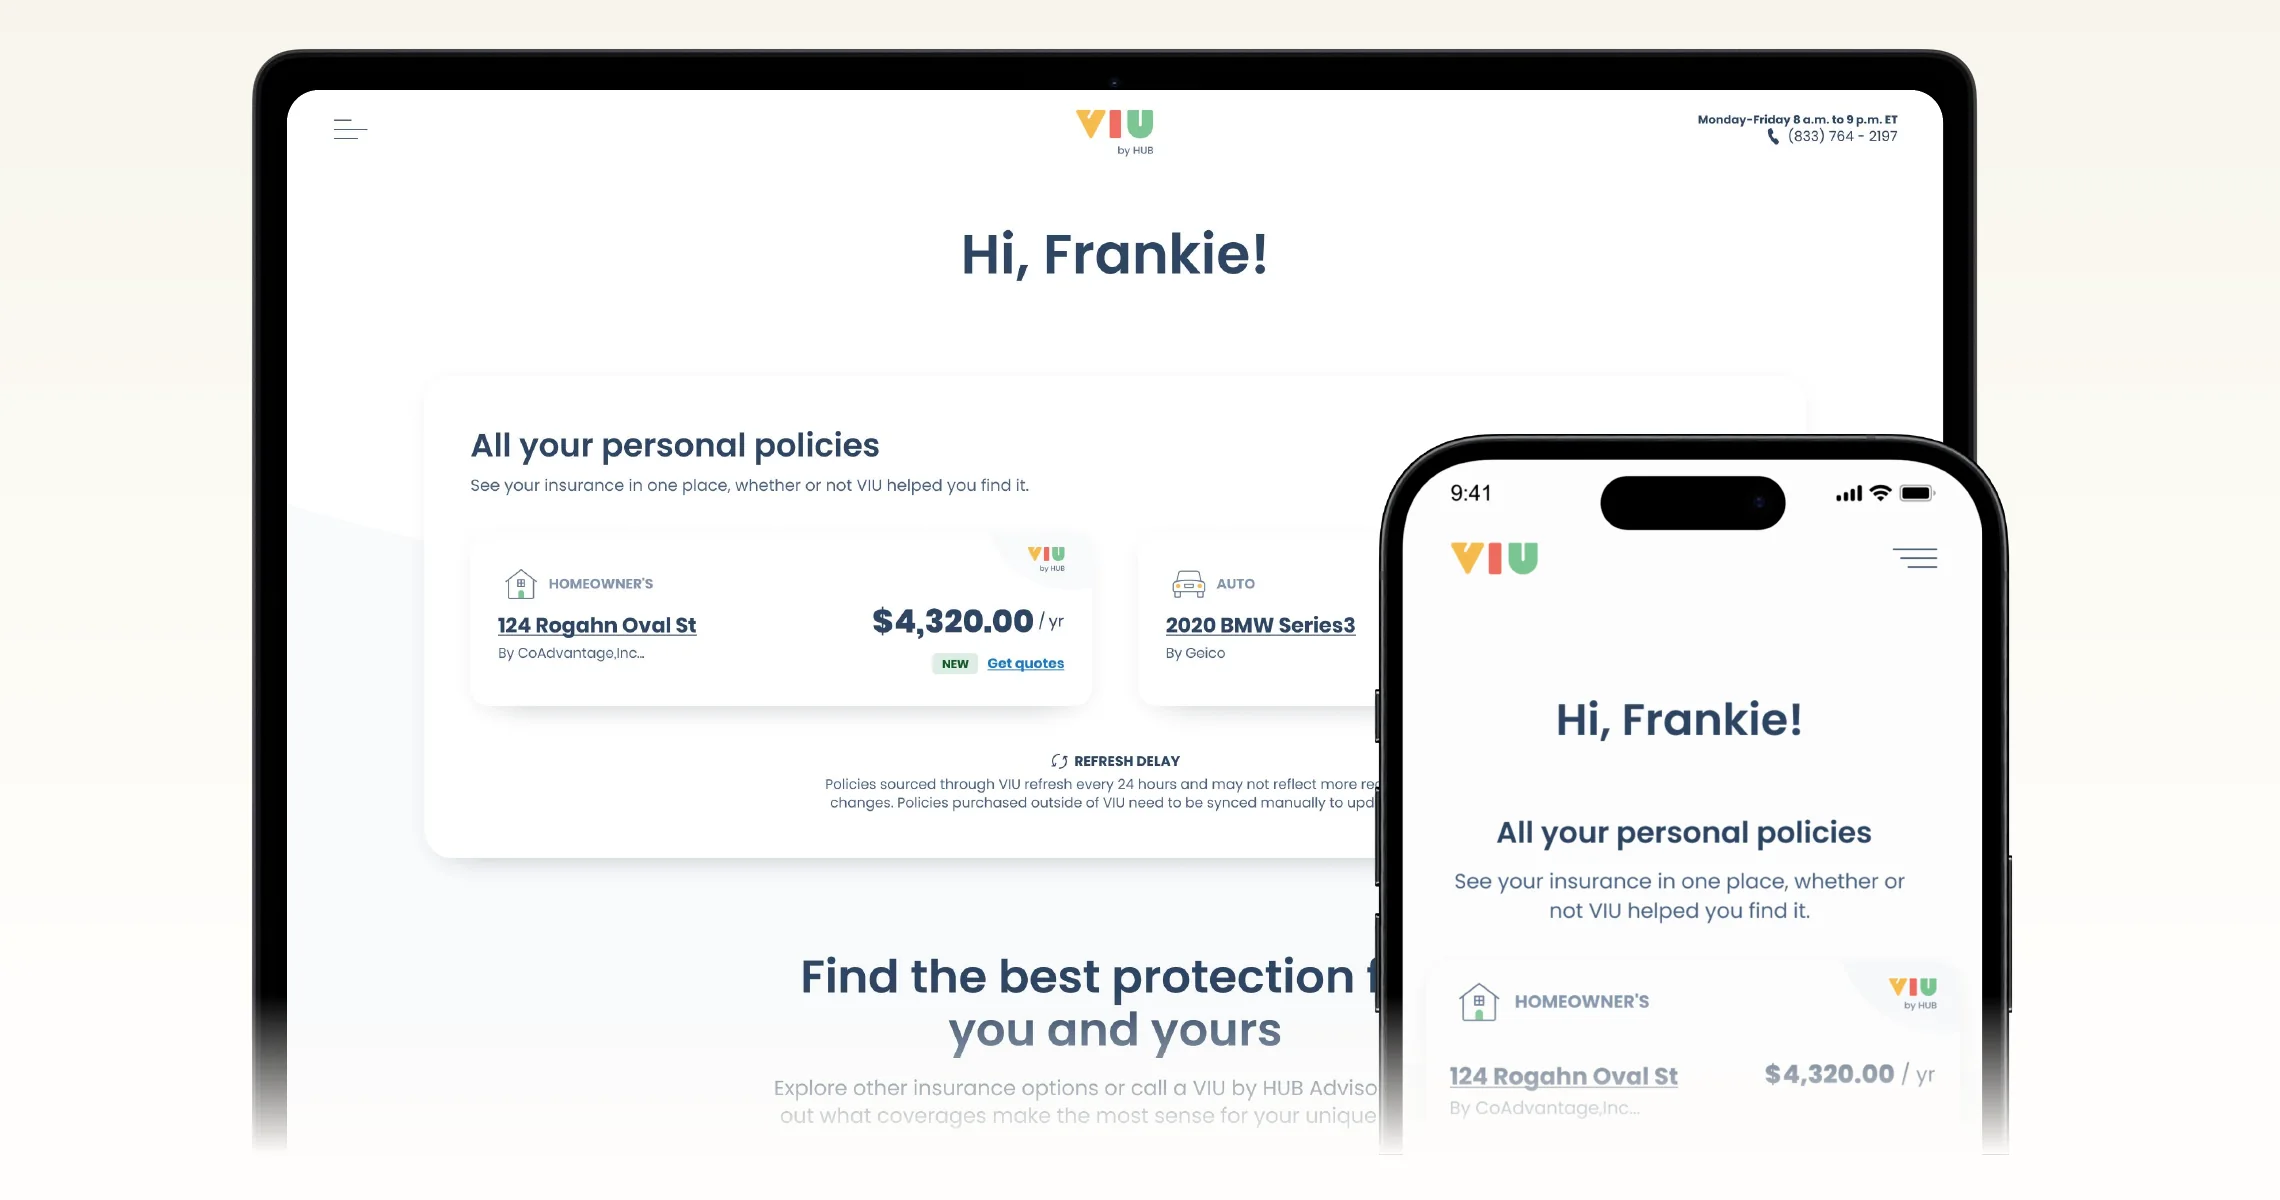
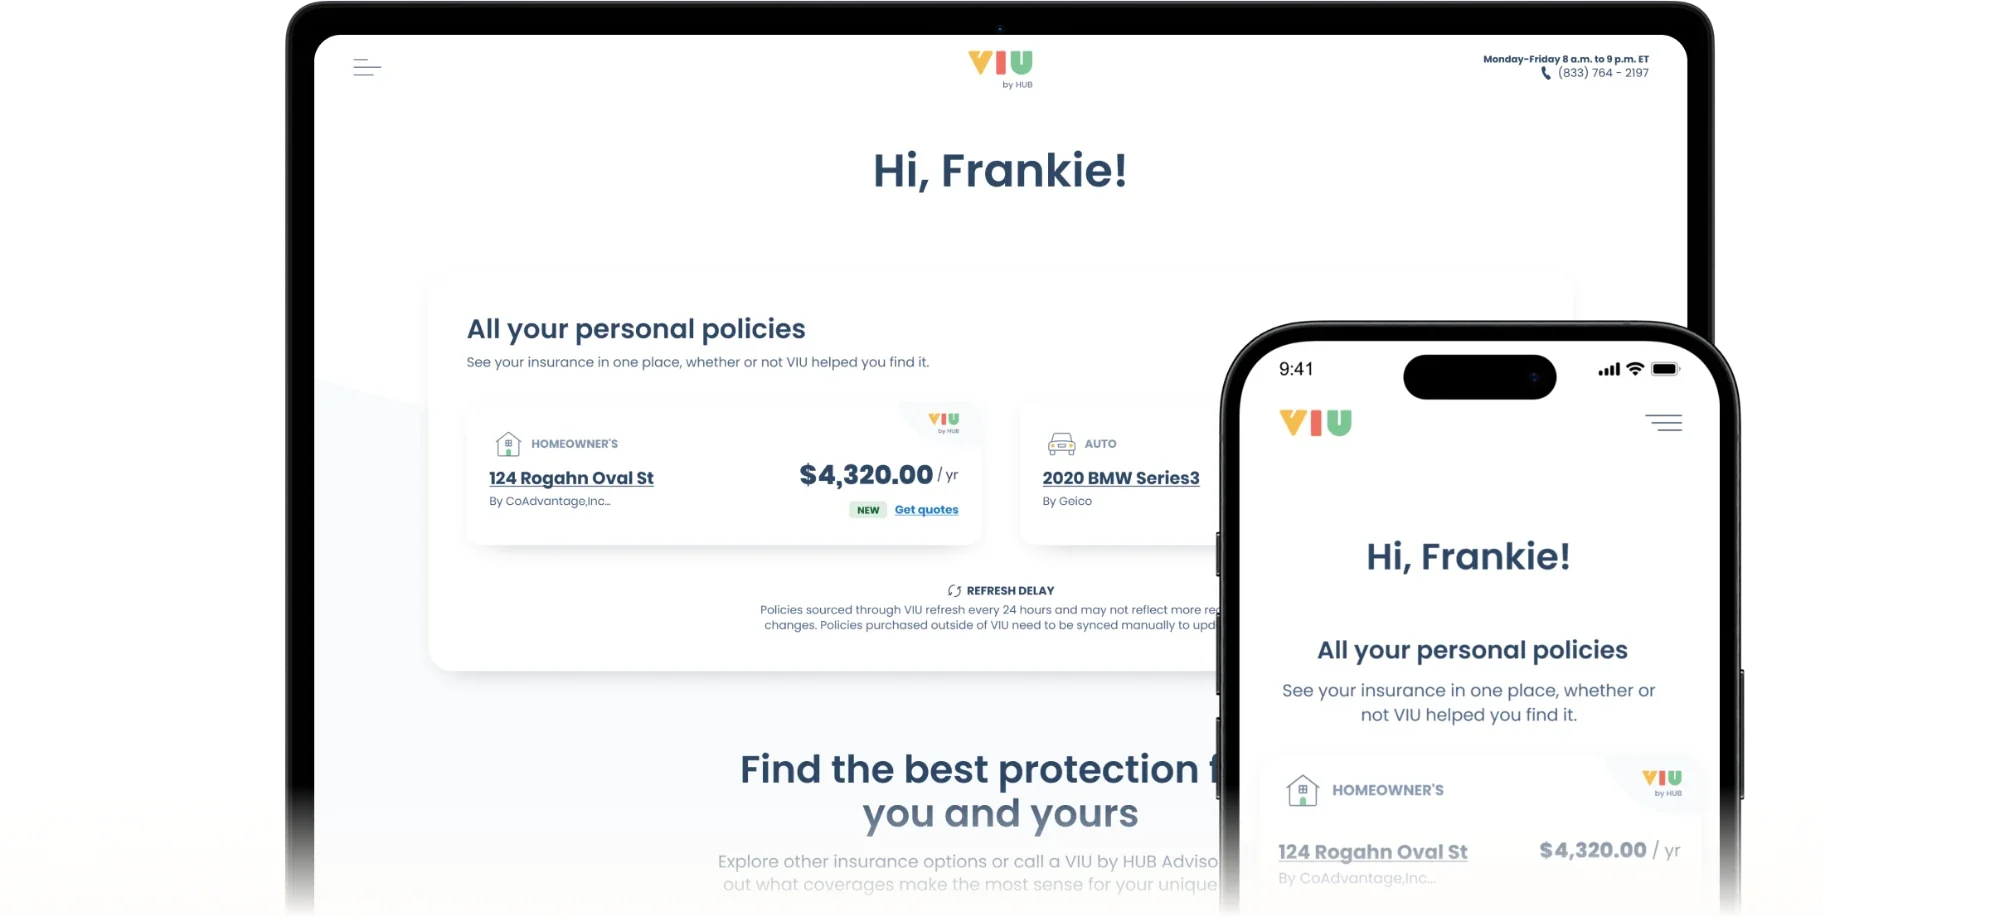
Case study: hero image without baked-in background
Claude-Session: https://claude.ai/code/session_014oW9rryPzLSdmVNbG2KxAd

diff --git a/case-studies/viu/index.html b/case-studies/viu/index.html
@@ -49,7 +49,7 @@
     <main id="main" class="cs-main" tabindex="-1">
 
       <div class="cs-hero">
-        <img src="img/hero.webp" width="2280" height="1200" alt="VIU by HUB account space on a laptop and a phone: “Hi, Frankie!” above all of Frankie’s personal policies.">
+        <img src="img/hero.webp" width="2000" height="917" alt="VIU by HUB account space on a laptop and a phone: “Hi, Frankie!” above all of Frankie’s personal policies.">
       </div>
 
       <!-- 01. OVERVIEW -->
